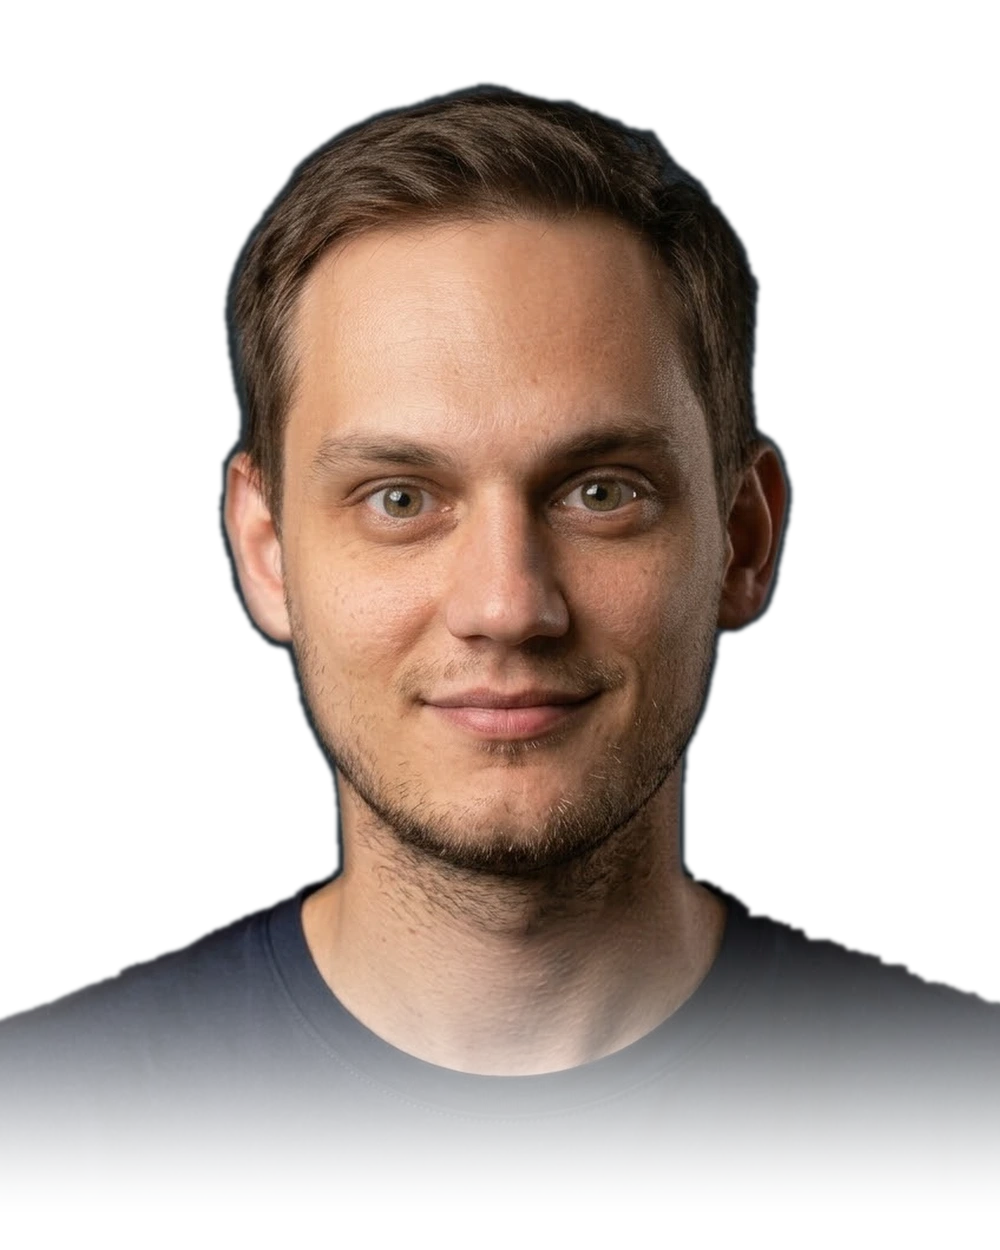
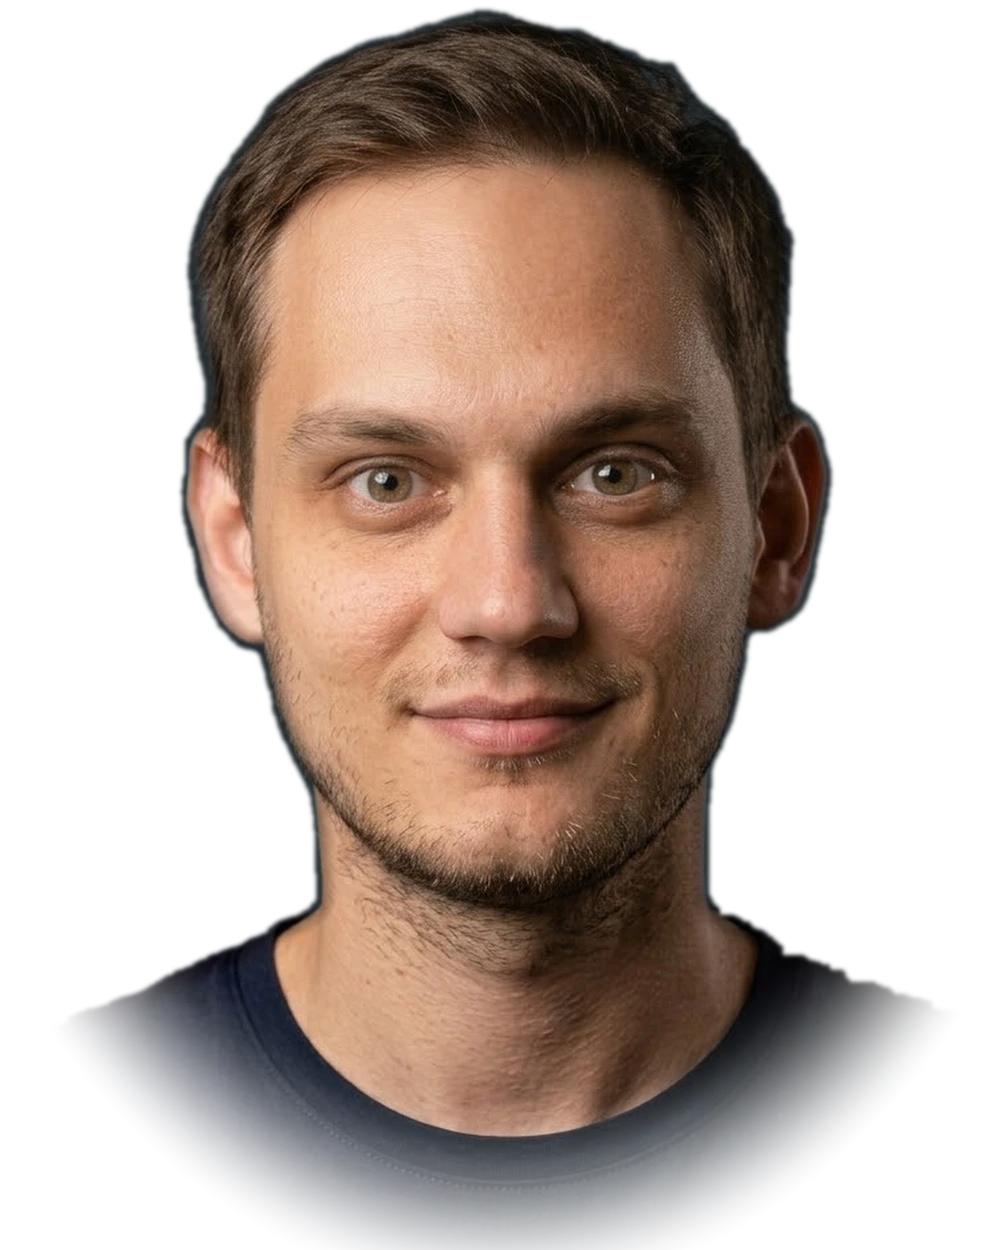
Hero 768-1279: swap mobile H1 for the desktop copy at 60px
h1.mobile (44px, mobileLines) now hides from 768; a new h1.tablet
element takes over 768-1279, rendering the same heroA/heroB two-line
copy and styling pattern as h1.desktop (margin 0, weight 600,
line-height 0.95, letter-spacing -0.04em) but fixed at 60px instead of
the desktop.display token. Both live inside the unchanged .copy-mobile
wrapper, so the status line and button keep their current layout/order
at 768-1279. Below 768 and from 1280 untouched.

Measured (real fonts, headless Chromium) before and after implementing:
at 60px, within the 704px content width shared by 768 and 1024 (the
homePadCSS tablet-cap mechanism), the H1 sits at exactly 2 lines for
both locales — en max line 679.9px, ru 672.8px — comfortable margin
under 704px, confirmed on the built page post-implementation.

public/hero-card.webp replaced with the new crop (style unchanged).

Claude-Session: https://claude.ai/code/session_01NtvqXs4JSE1z6mAa41T4Lx

diff --git a/src/components/Hero.tsx b/src/components/Hero.tsx
@@ -50,6 +50,33 @@ export const Hero = ({ lang, place, heroA, heroB, mobileLines, cta, waLink }: He
           letter-spacing: -0.038em;
         }
 
+        @media (min-width: 768px) {
+          h1.mobile {
+            display: none;
+          }
+        }
+
+        /* 768–1279: same two-line heroA/heroB copy as the 1280+ H1
+           (h1.desktop below), just at a fixed 60px instead of the
+           desktop.display token — still inside .copy-mobile, so the
+           status line/button underneath keep their current layout. */
+        h1.tablet {
+          display: none;
+          margin: 0;
+          font-family: ${T.home.font.sans};
+          font-weight: 600;
+          color: ${T.home.color.textPrimary};
+          line-height: 0.95;
+          letter-spacing: -0.04em;
+          font-size: 60px;
+        }
+
+        @media (min-width: 768px) {
+          h1.tablet {
+            display: block;
+          }
+        }
+
         .cta-row-mobile {
           display: flex;
           flex-direction: column;
@@ -135,6 +162,12 @@ export const Hero = ({ lang, place, heroA, heroB, mobileLines, cta, waLink }: He
               {line}
             </Fragment>
           ))}
+          <span className="accent-dot">.</span>
+        </h1>
+        <h1 className="tablet">
+          {heroA}
+          <br />
+          {heroB}
           <span className="accent-dot">.</span>
         </h1>
         <div className="cta-row-mobile">
